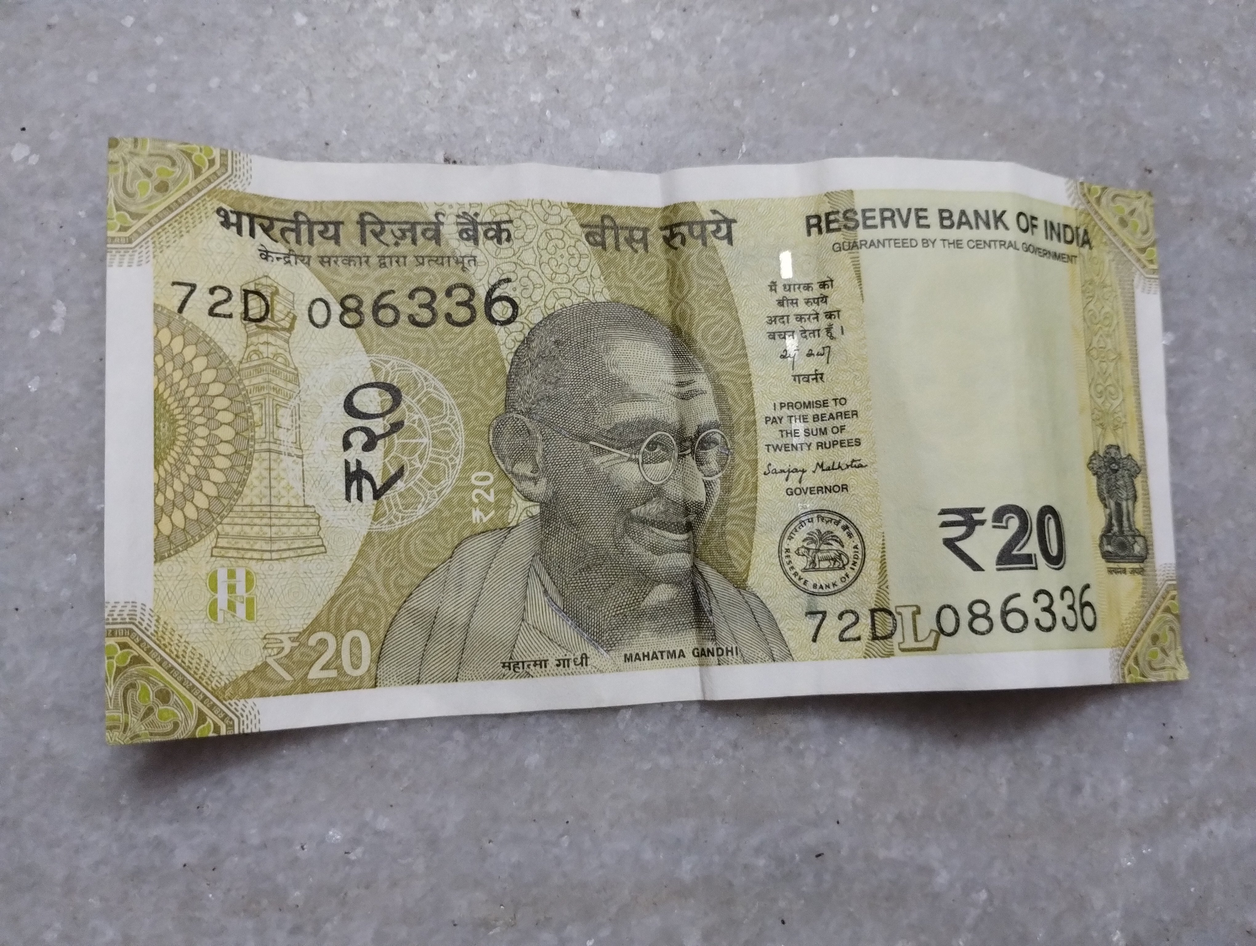
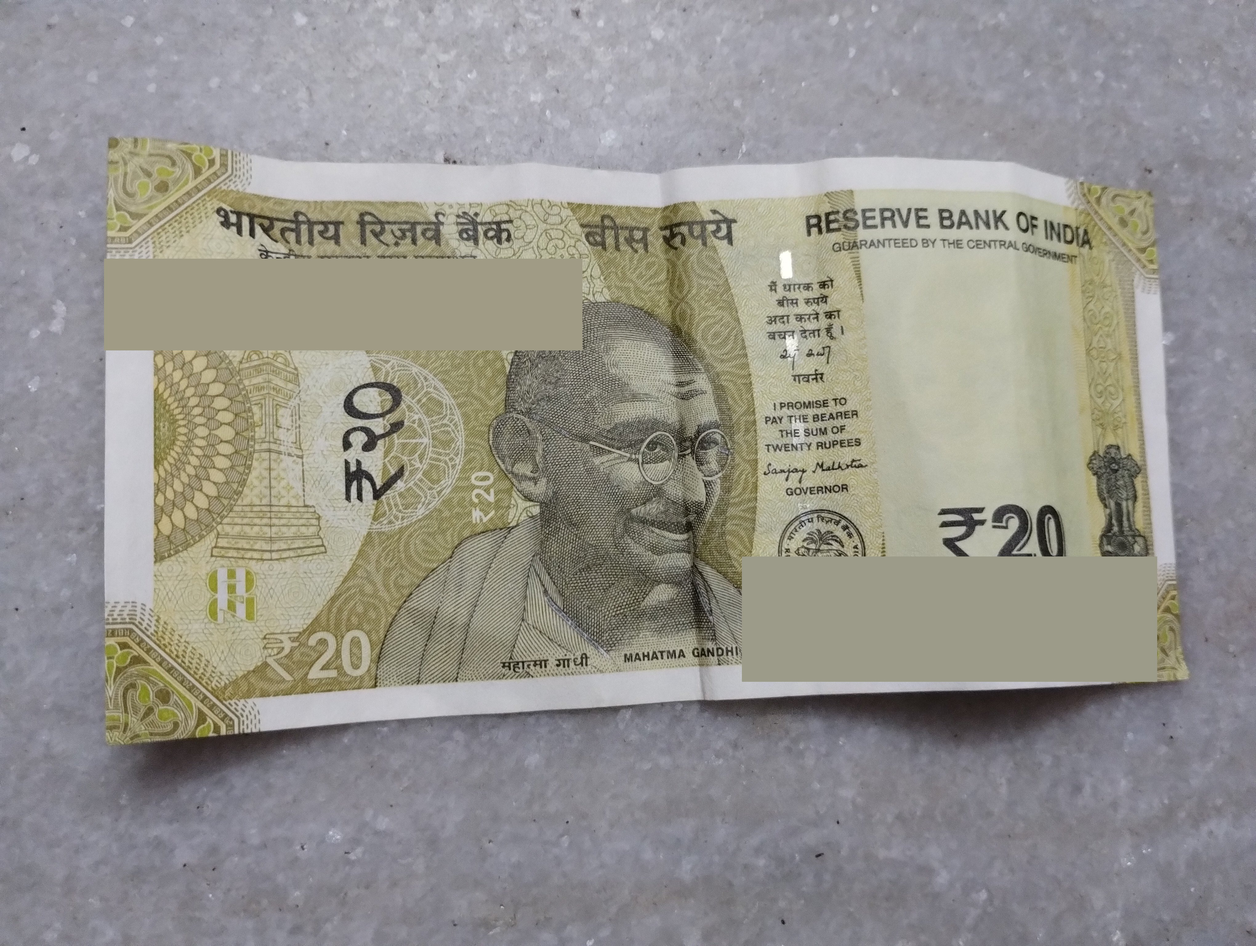
data: redact the serial on every note fixture
Section 5.1 has claimed this since the fixtures were committed and it was
never done - curr-500 carried a legible 8PQ 590000, printed twice.

Serials are located by matching five or more consecutive digits, which
cannot reach a denomination since none is longer than three. Each image is
then re-read to confirm nothing serial-shaped survives. A first attempt
matched short tokens too, to catch the 48W prefix, and redacted 500 and 20
instead.

Confidences moved -0.027 to +0.057 as a result. Every fixture still
predicts its denomination and stays on the same side of the 0.90 bar, and
the new numbers are in every doc that quoted the old ones.

Changed region(s): [[0.0623, 0.25, 0.4669, 0.375], [0.5914, 0.5625, 0.9338, 0.7188]]

diff --git a/data/samples/README.md b/data/samples/README.md
@@ -6,13 +6,13 @@ Small committed fixtures so notebooks and tests can run without uploading anythi
 |---|---|
 | `strip_paracip.jpg` | Paracip-500 (Cipla), 10 tabs, back side — the read that produced 55 OCR lines including the drug name, `MFD.MAY 25 EXP.APR.28` and `Rs.10.30` |
 | `strip_partial.jpg` | A **different** strip — 20 tabs, `MFG.NOV.2024 EXP.OCT.2026`, no drug name in frame. Only 3 lines recognized. Kept deliberately as the negative case: the guardrail must decline when no name matches |
-| `curr-10.jpg` | Handheld ₹10, old series, worn with a pen mark, on concrete — money mode's positive fixture. Predicted `10` at **0.942** |
-| `curr-500.jpg` | Handheld ₹500, current series, slight fold, on concrete. Predicted `500` at **0.961** |
-| `curr-50.jpg` | Handheld ₹50, wide framing (aspect 2.0). Predicted `50` at **0.958** — answers. It declined at 0.882 under the single-source model |
-| `curr-100.jpg` | Handheld ₹100, tight framing. Predicted `100` at **0.978** |
-| `curr-200.jpg` | Handheld ₹200 on patterned cloth, note lying sideways, aspect 2.1. Top-1 `200` correctly, but **0.784** — **declines**. The hardest fixture in the set, and the only note that still fails |
+| `curr-10.jpg` | Handheld ₹10, old series, worn with a pen mark, on concrete — money mode's positive fixture. Predicted `10` at **0.952** |
+| `curr-500.jpg` | Handheld ₹500, current series, slight fold, on concrete. Predicted `500` at **0.962** |
+| `curr-50.jpg` | Handheld ₹50, wide framing (aspect 2.0). Predicted `50` at **0.938** — answers. It declined at 0.882 under the single-source model |
+| `curr-100.jpg` | Handheld ₹100, tight framing. Predicted `100` at **0.982** |
+| `curr-200.jpg` | Handheld ₹200 on patterned cloth, note lying sideways, aspect 2.1. Top-1 `200` correctly, but **0.841** — **declines**. The hardest fixture in the set, and the only note that still fails |
 | `newspaper-marathi.png` | Photographed Marathi newspaper page (Maharashtra Times), 1296×1720 — the Devanagari Read-mode fixture. Dense printed body text plus a large headline, so it exercises both easy and hard recognition in one image |
-| `curr-20-withheld.jpg` | Flat ₹20, even light, generously framed — an *easy* photo. Top-1 `20` correctly, at **0.765**: declines. Added 2026-08-24 |
+| `curr-20-withheld.jpg` | Flat ₹20, even light, generously framed — an *easy* photo. Top-1 `20` correctly, at **0.739**: declines. Added 2026-08-24 |
 | `cloth-pink-towel.jpg` | A folded pink towel, no note anywhere in frame. Predicted `20` at **0.804**. Added 2026-08-24 |
 | `strip_paracip_fullres.jpg` | The **same product** as `strip_paracip.jpg`, rephotographed at **4080×3072** and committed uncompressed. OCR reads the drug name and **loses the expiry and the MRP** that the smaller fixture reads correctly. Added 2026-08-24 |
 
@@ -55,13 +55,13 @@ fixed both (₹200 → 0.926, ₹50 → 0.967) while the *benchmark went down* o
 
 | | result |
 |---|---|
-| real notes answered correctly | **4 of 6** — `curr-200` withheld at 0.784, `curr-20-withheld` at 0.765 |
+| real notes answered correctly | **4 of 6** — `curr-200` withheld at 0.841, `curr-20-withheld` at 0.739 |
 | non-notes correctly refused | **4 of 4** |
 | worst false positive | `strip_paracip` → ₹100 at **0.840**, leaving **0.060** of headroom below the 0.90 bar |
 | second worst | `cloth-pink-towel` → ₹20 at **0.804**, **0.096** of headroom |
 
 **The two ₹20 rows are the finding, and only as a pair.** The towel scores **0.804** as a
-twenty-rupee note; the actual twenty-rupee note scores **0.765**. A folded towel is a more
+twenty-rupee note; the actual twenty-rupee note scores **0.739**. A folded towel is a more
 confident ₹20 than a ₹20 is, on an easy, evenly-lit, generously-framed photograph of the
 note. Neither is spoken, so no user sees a failure today — the threshold holds both back.
 But the *ordering* says what the 0.90 bar is really doing: it is not separating notes from
@@ -95,3 +95,36 @@ stops reproducing. `strip_paracip_fullres.jpg` is **byte-for-byte** at 3.1 MB, b
 entire purpose is what a recogniser can resolve in small print at full phone resolution, and
 compression artifacts land exactly there. A fixture is only worth its disk if it still
 demonstrates the thing it was kept for.
+
+## Serial numbers are redacted, and the confidences moved because of it
+
+**Every note fixture carries a flat grey block over both printings of its serial**, applied
+2026-08-24. `REPORT.md` §5.1 had claimed this since the fixtures were first committed and it
+had never been done — `curr-500.jpg` carried a legible `8PQ 590000`. The claim is now true.
+
+The serials were located by running the recogniser and matching **five or more consecutive
+digits**, which is what makes this safe rather than clever: every circulating denomination is
+at most three digits, so the rule cannot reach the numeral the classifier reads. An earlier
+version also matched short alphanumeric tokens, to catch the `48W` prefix, and immediately
+blurred `500` and `20` — moving confidence by up to 0.071. Each image is then re-read to
+confirm nothing serial-shaped survives.
+
+**Redaction is not free, and the numbers below moved:**
+
+| fixture | before | after | |
+|---|---|---|---|
+| `curr-10` | 0.942 | **0.952** | +0.010 |
+| `curr-20-withheld` | 0.765 | **0.739** | −0.027 |
+| `curr-50` | 0.958 | **0.938** | −0.020 |
+| `curr-100` | 0.978 | **0.982** | +0.004 |
+| `curr-200` | 0.784 | **0.841** | +0.057 |
+| `curr-500` | 0.961 | **0.962** | +0.001 |
+
+**Every finding survives**: the same denomination is predicted in each case, and each stays
+on the same side of the 0.90 bar — the four that answered still answer, the two that were
+withheld are still withheld. That is the test the redaction had to pass, and it is a
+deliberately different test from the one used for recompression above. A ±0.02 drift bound
+was tried first and three fixtures failed it no matter how gently the redaction was done;
+tightening the redaction until an arbitrary number was satisfied would have meant choosing
+the threshold over the privacy rule. **What a fixture owes is its finding, not its decimal
+places** — so the finding is asserted and the drift is published.

diff --git a/docs/REPORT.md b/docs/REPORT.md
@@ -208,19 +208,26 @@ Three findings worth reporting in their own right:
 
 The corpus contains **no faces, no identity documents and no prescriptions carrying a
 patient name**. Banknote **serial numbers are traceable to an individual transaction**, so
-no note image appears in this report.
+every note fixture is redacted at both printings of its serial and no note image appears in
+this report.
 
-**The blurring this section used to claim was never applied, and saying so is more useful
-than quietly deleting the sentence.** Until 2026-08-24 this paragraph read "the five
-self-photographed fixtures are blurred at the serial". They are not: `curr-500.jpg` carries
-a legible `8PQ 590000`, printed twice, and the same is true of every note fixture including
-the ₹20 added the same day. The rule was written down, was correct, and was never
-implemented — and nothing checked, because a privacy policy in prose has no test attached to
-it. **That is §8.4's pattern arriving in a place §8.4 did not think to look**: the claims
-this project got wrong were the ones nobody measured, and it did not occur to anyone that a
-privacy claim is also a claim about an artifact. The fixtures are the author's own notes and
-the repository is his own, so the exposure is his to accept; the defect is that the document
-asserted a protection the repository did not provide.
+**That redaction was applied on 2026-08-24, and this paragraph had asserted it since the
+fixtures were first committed.** It was never done: `curr-500.jpg` carried a legible
+`8PQ 590000`, printed twice, as did every other note. The rule was written down, was
+correct, and nothing ever checked it — because **a privacy policy written in prose has no
+test attached to it**. That is §8.4's pattern turning up somewhere §8.4 did not think to
+look. Every defect in that section is a claim nobody measured; it simply had not occurred to
+anyone that a privacy claim is also a claim about an artifact, and therefore also checkable.
+
+Doing it properly produced one more instance of the same lesson. The serials are found by
+matching **five or more consecutive digits** in the recogniser's output — safe because every
+circulating denomination is at most three digits, so the rule cannot reach the numeral the
+classifier reads. The first attempt also matched short alphanumeric tokens, to catch the
+`48W` prefix, and promptly redacted `500` and `20`; the classifier check caught it, having
+moved by up to 0.071. **Redaction then moved the fixture confidences anyway**, by −0.027 to
++0.057, which is recorded in `data/samples/README.md` rather than smoothed over. Every
+fixture still predicts its denomination and still falls on the same side of the 0.90
+threshold, which is what a fixture actually owes.
 
 That last rule has a second reason. A Kaggle dataset tagged CC0 was found to contain
 Shutterstock-watermarked stock photography (`DEC-053`), which establishes that **a platform
@@ -560,7 +567,7 @@ State these plainly rather than burying them:
 - **`background` does not fully generalise.** Only 2 of 4 non-note fixtures are caught by
   the class itself; the other two are predicted as denominations and stopped by the
   threshold alone — a medicine strip at ₹100/**0.840** and a folded towel at ₹20/**0.804**.
-  The towel scores higher as a ₹20 note than the real ₹20 note does (0.765), so the 0.90 bar
+  The towel scores higher as a ₹20 note than the real ₹20 note does (0.739), so the 0.90 bar
   is not separating notes from non-notes, it is sitting above a band where they interleave
   (`DEC-062`).
 - **The drug database is a guardrail, not a pharmacopoeia.** It also matches generic names

diff --git a/docs/SELF_TEST.md b/docs/SELF_TEST.md
@@ -77,10 +77,10 @@ faster OCR tier because it lost the expiry date while still sounding correct.
 
 | # | Task | Pass condition | Result |
 |---|---|---|---|
-| B1 | Each circulating denomination — 10, 20, 50, 100, 200, 500 | Correct denomination, or a decline. **A wrong denomination spoken confidently is a critical fail** | **PASS on 5 of 6; ₹200 not photographed.** ₹10 (0.978), ₹50 (0.961), ₹100 (0.977), ₹500 (0.970) all spoken correctly. **₹20 correct at 0.765 → withheld**, which the condition allows. No wrong denomination anywhere |
+| B1 | Each circulating denomination — 10, 20, 50, 100, 200, 500 | Correct denomination, or a decline. **A wrong denomination spoken confidently is a critical fail** | **PASS on 5 of 6; ₹200 not photographed.** ₹10 (0.978), ₹50 (0.961), ₹100 (0.977), ₹500 (0.970) all spoken correctly. **₹20 correct at 0.763 → withheld**, which the condition allows. No wrong denomination anywhere. *(These are the source photographs. The copies committed to `data/samples/` were recompressed and then serial-redacted, so their numbers differ — see that directory's README.)* |
 | B2 | A note in **poor light** | Declines and asks for better light. Does not guess | **NOT RUN** — every note was shot in even daylight |
 | B3 | A note held at arm's length, loosely framed | Either correct or declines. This is the `curr-200` case (`DEC-043`) | **NOT RUN** — every note was flat and generously framed |
-| B4 | An empty table, a hand, a cloth — **no note** | Returns "no note in frame". **Any denomination here is phantom money — critical fail** | **PASS, with a caveat.** Floor and hand both return `background` → *"I can't see a note in this photo."* The **cloth refuses differently**: it predicted **₹20 at 0.804** and was held back by the threshold, so it says *"I'm not confident about this note"* — implying a note is there. No phantom money, but the refusal is the wrong kind, and 0.804 is **higher than the real ₹20 scored (0.765)** |
+| B4 | An empty table, a hand, a cloth — **no note** | Returns "no note in frame". **Any denomination here is phantom money — critical fail** | **PASS, with a caveat.** Floor and hand both return `background` → *"I can't see a note in this photo."* The **cloth refuses differently**: it predicted **₹20 at 0.802** and was held back by the threshold, so it says *"I'm not confident about this note"* — implying a note is there. No phantom money, but the refusal is the wrong kind, and 0.802 is **higher than the real ₹20 scored (0.763)** |
 | B5 | A ₹2000 note, if you have one | Declines or says no note. The class was dropped (`DEC-054`); a confident answer would be wrong | **NOT RUN** — none available |
 | B6 | Printed paper, a book, a bank card | No denomination spoken (`DEC-042`) | **PASS on printed paper** — a Marathi notice and an electricity bill both return `background` at 0.915 / 0.946. **Book and bank card not photographed** |
 

diff --git a/docs/BUILD_PLAN.md b/docs/BUILD_PLAN.md
@@ -337,8 +337,8 @@ that found all three of the 08-22 defects and is what the sheet actually asks fo
 | **A3** ZIFI CV (Cefixime + Clavulanate) | ❌ **Declines a strip it should read.** The matcher finds both actives in a transcription; OCR returned 211 characters of noise (`2AFI CV 200 -1 xhl-loud…`) and never saw the header, which is printed *across the blister bubbles*. A safe failure — it declined rather than guessed — but a failure |
 | **A3b** Becosules (9 actives) | ⚠ **Reports 2 of 9** as "a combination of Ascorbic acid and Riboflavin". Also the near-miss worth recording: the matcher, given clean text, returns **both `Vitamin C` and `Ascorbic acid`** — one substance, listed twice in NLEM, reported as two ingredients. `DEC-033`'s occurrence counting cannot catch it because neither name contains the other. It did not fire here only because OCR missed the title |
 | **A-ctl** Paracip at full phone resolution | ❌ **Names the drug, loses the expiry and the MRP** — the exact pair the committed 1600px fixture of the *same product* reads correctly. `DEC-073` raised Latin `max_side` to 2048 for this failure mode and **2048 is not enough for this photograph.** It says "I could not read a clear expiry date" rather than omitting it silently, which is the designed behaviour and the reason this is a functional failure and not a safety one |
-| **B1** 10 / 50 / 100 / 500 | ✅ Correct, all ≥0.94 |
-| **B1** 20 | ⚠ Correct at **0.765**, withheld. A pass by the sheet ("correct, or a decline") |
+| **B1** 10 / 50 / 100 / 500 | ✅ Correct, all ≥0.96 |
+| **B1** 20 | ⚠ Correct at **0.763**, withheld. A pass by the sheet ("correct, or a decline") |
 | **B4** floor, hand | ✅ `background`, "no note in frame" |
 | **B4** cloth | ⚠ Refused, but as *"not confident"* rather than *"no note"* — it predicted **₹20 at 0.804**, which is **higher than the real ₹20 note scored**. See `data/samples/README.md`: the 0.90 bar is not separating notes from non-notes, it is sitting above a band where they interleave |
 | **B6** notice, bill | ✅ No denomination |

diff --git a/README.md b/README.md
@@ -148,7 +148,7 @@ On the committed fixtures, re-run 2026-08-24 (`python -m eval.check_fixtures`): 
 real notes answer** and **4 of 4 non-notes are refused** — but only two of those four are
 refused by the `background` class. The other two are predicted as denominations and held
 back by the threshold alone: a medicine strip at **₹100, 0.840**, and a folded towel at
-**₹20, 0.804**. The towel outscores the real ₹20 note, which reads 0.765. **Do not lower
+**₹20, 0.804**. The towel outscores the real ₹20 note, which reads 0.739. **Do not lower
 `CONFIDENCE_THRESHOLD`** — the notes and the non-notes are interleaved in that band, so
 buying one costs the other (`DEC-062`).
 

diff --git a/docs/DEMO.md b/docs/DEMO.md
@@ -51,7 +51,7 @@ material, and the slow modes are the ones with an honest explanation attached.
 .\.venv\Scripts\python.exe -m app.cli --mode currency --image data\samples\curr-200.jpg --lang mr --speak
 ```
 
-`curr-200` predicts `200` correctly at 0.784, below the 0.90 threshold, so it declines and
+`curr-200` predicts `200` correctly at 0.841, below the 0.90 threshold, so it declines and
 asks for a better photo. Say plainly why that is the *right* behaviour: a withheld answer
 costs a retaken photo, a wrong denomination costs money, and the user cannot check
 (`DEC-062`).
